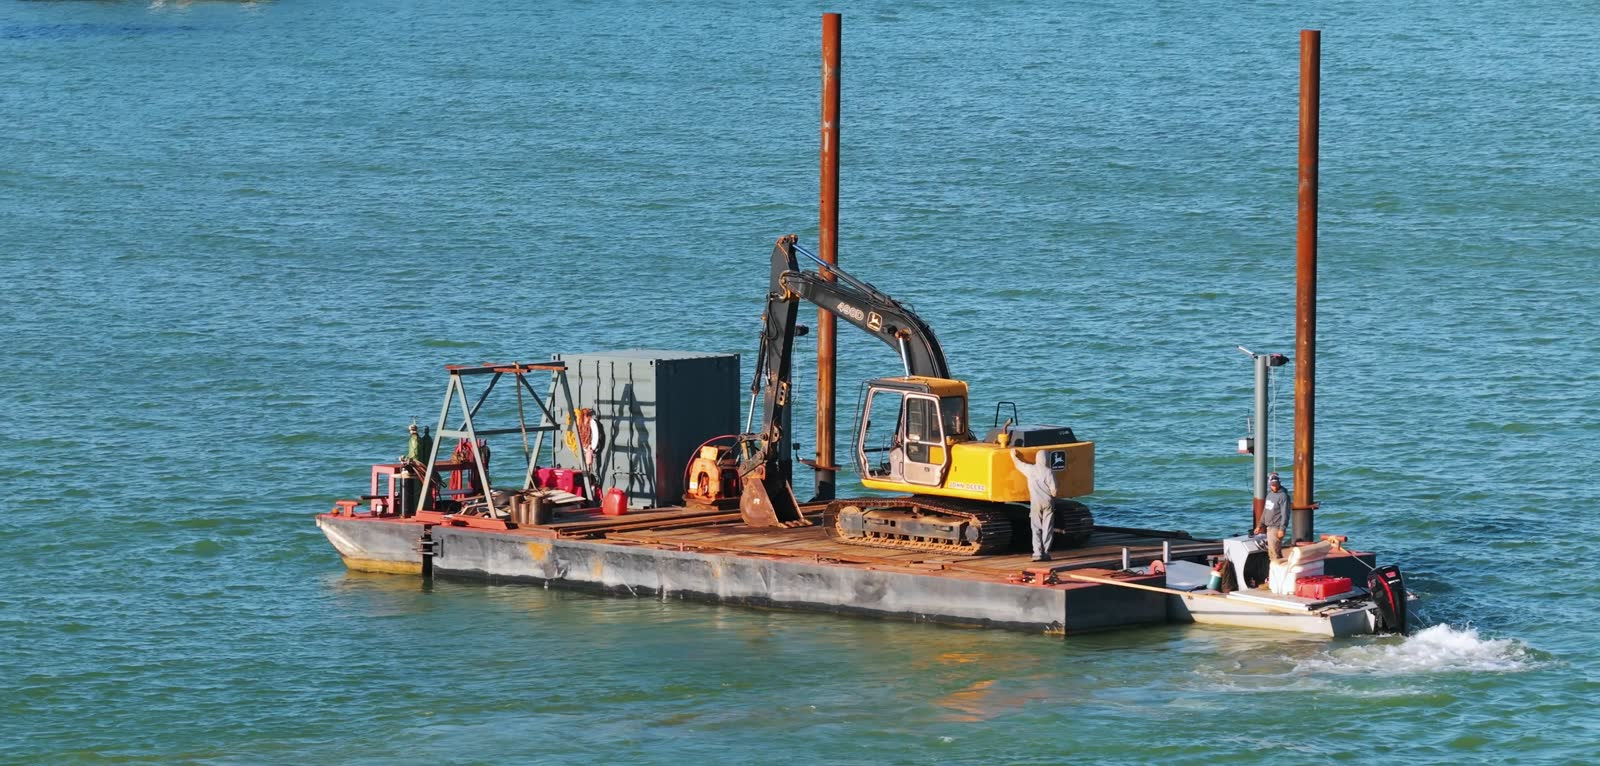
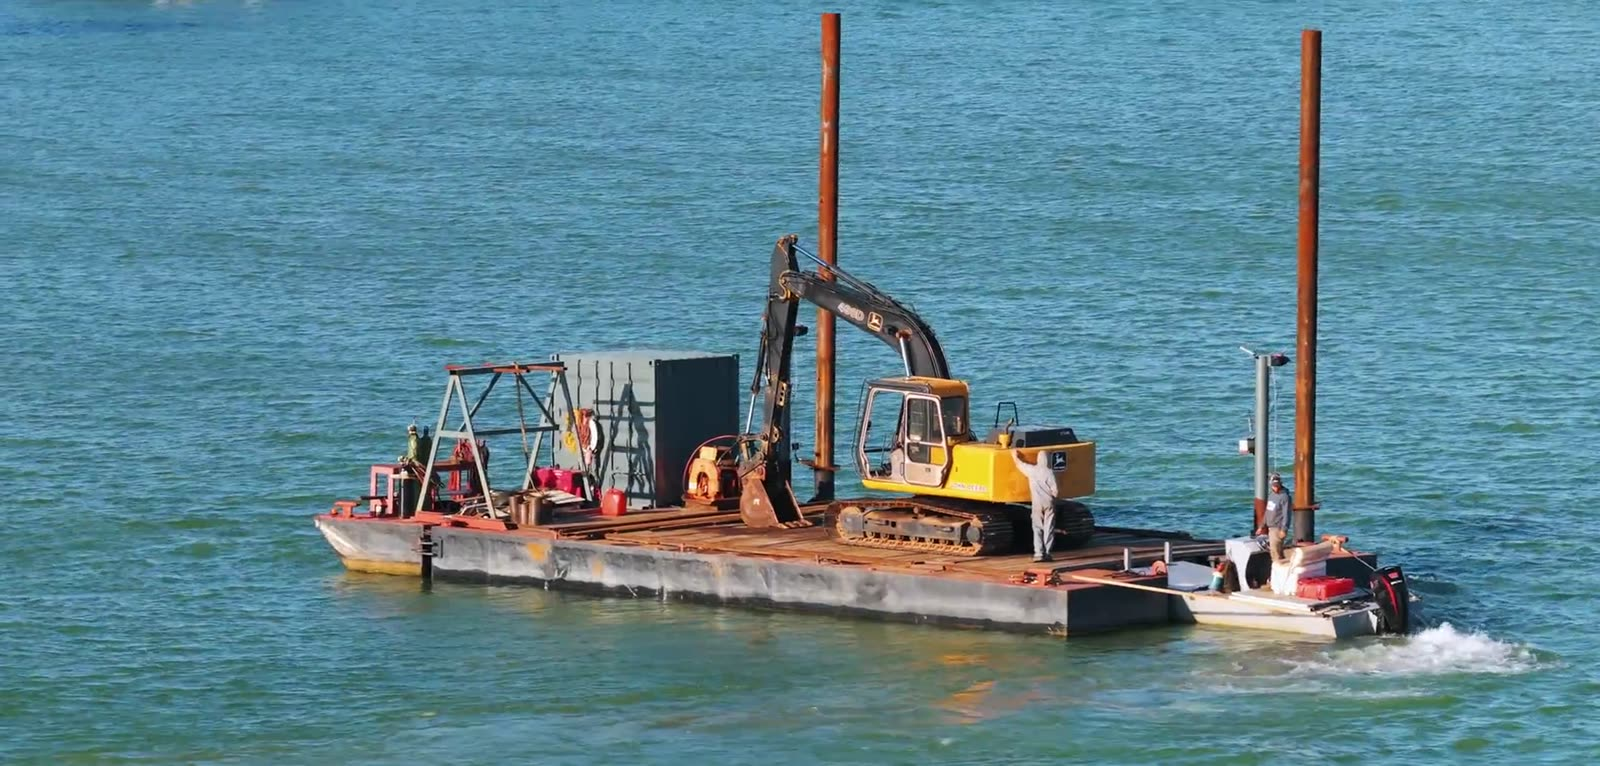
Add matching freeze-frame fallback for hero video

diff --git a/components/hero-video.tsx b/components/hero-video.tsx
@@ -1,36 +1,80 @@
 'use client'
 
-import { useEffect, useRef } from 'react'
+import { useEffect, useRef, useState } from 'react'
+
+// The source clip opens with a ~1s black letterbox reveal. Playback starts (and loops)
+// just after it, and the poster images are that exact frame, so the hand-off is seamless.
+const START_TIME = 1.1
 
 export function HeroVideo({ className = '' }: { className?: string }) {
   const videoRef = useRef<HTMLVideoElement>(null)
+  const [isPlaying, setIsPlaying] = useState(false)
 
   useEffect(() => {
     const video = videoRef.current
     if (!video) return
-    const reduce = window.matchMedia('(prefers-reduced-motion: reduce)')
-    if (reduce.matches) {
+    if (window.matchMedia('(prefers-reduced-motion: reduce)').matches) {
       video.pause()
       return
     }
+
+    const skipIntro = () => {
+      if (video.currentTime < START_TIME) video.currentTime = START_TIME
+    }
+    const restart = () => {
+      video.currentTime = START_TIME
+      video.play().catch(() => {})
+    }
+    const markPlaying = () => {
+      if (!video.paused && video.currentTime >= START_TIME) setIsPlaying(true)
+    }
+
+    if (video.readyState >= 1) skipIntro()
+    markPlaying()
+    video.addEventListener('loadedmetadata', skipIntro)
+    video.addEventListener('ended', restart)
+    video.addEventListener('playing', markPlaying)
+    video.addEventListener('timeupdate', markPlaying)
+
     // Some mobile browsers ignore the autoplay attribute until play() is called.
+    // If autoplay is blocked (e.g. iOS Low Power Mode), the freeze frame simply stays.
     video.play().catch(() => {})
+
+    return () => {
+      video.removeEventListener('loadedmetadata', skipIntro)
+      video.removeEventListener('ended', restart)
+      video.removeEventListener('playing', markPlaying)
+      video.removeEventListener('timeupdate', markPlaying)
+    }
   }, [])
 
   return (
-    <video
-      ref={videoRef}
-      className={`h-full w-full object-cover ${className}`}
-      autoPlay
-      muted
-      loop
-      playsInline
-      preload="metadata"
-      poster="/videos/hero-poster.jpg"
-      aria-label="Breakwall Specialists crew working from an excavator barge on the water"
-    >
-      <source src="/videos/hero-720.mp4" type="video/mp4" media="(max-width: 767px)" />
-      <source src="/videos/hero-1080.mp4" type="video/mp4" />
-    </video>
+    <>
+      <picture>
+        <source srcSet="/videos/hero-poster-mobile.jpg" media="(max-width: 767px)" />
+        <img
+          src="/videos/hero-poster.jpg"
+          alt=""
+          aria-hidden="true"
+          fetchPriority="high"
+          decoding="async"
+          className={`absolute inset-0 h-full w-full object-cover ${className}`}
+        />
+      </picture>
+      <video
+        ref={videoRef}
+        className={`absolute inset-0 h-full w-full object-cover transition-opacity duration-300 ${
+          isPlaying ? 'opacity-100' : 'opacity-0'
+        } ${className}`}
+        autoPlay
+        muted
+        playsInline
+        preload="auto"
+        aria-label="Breakwall Specialists crew working from an excavator barge on the water"
+      >
+        <source src={`/videos/hero-720.mp4#t=${START_TIME}`} type="video/mp4" media="(max-width: 767px)" />
+        <source src={`/videos/hero-1080.mp4#t=${START_TIME}`} type="video/mp4" />
+      </video>
+    </>
   )
 }
